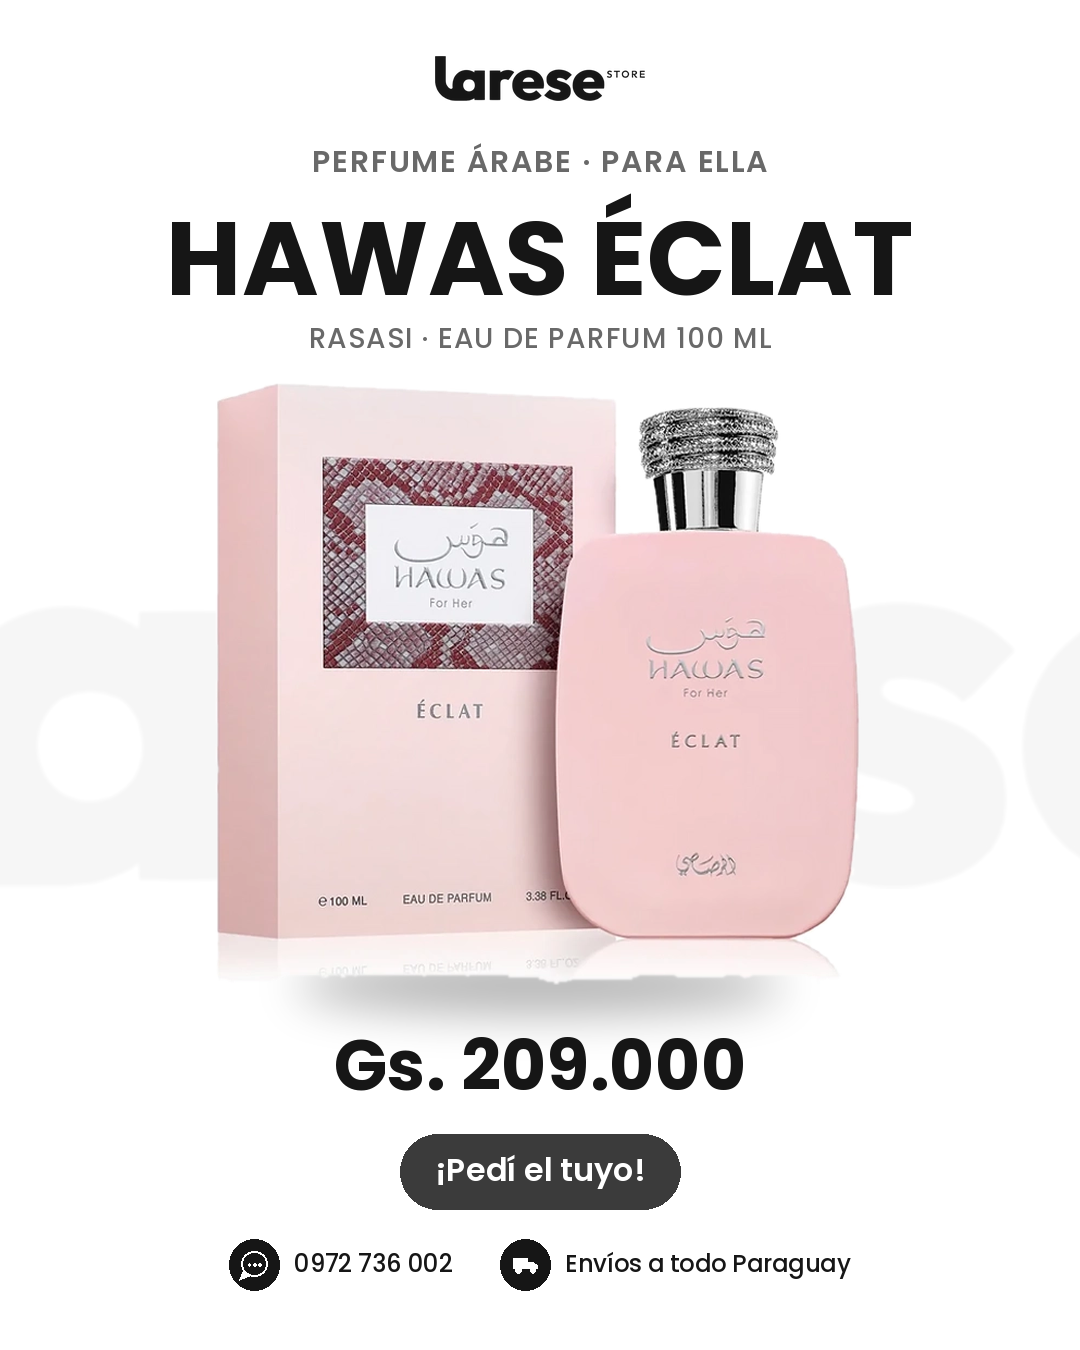
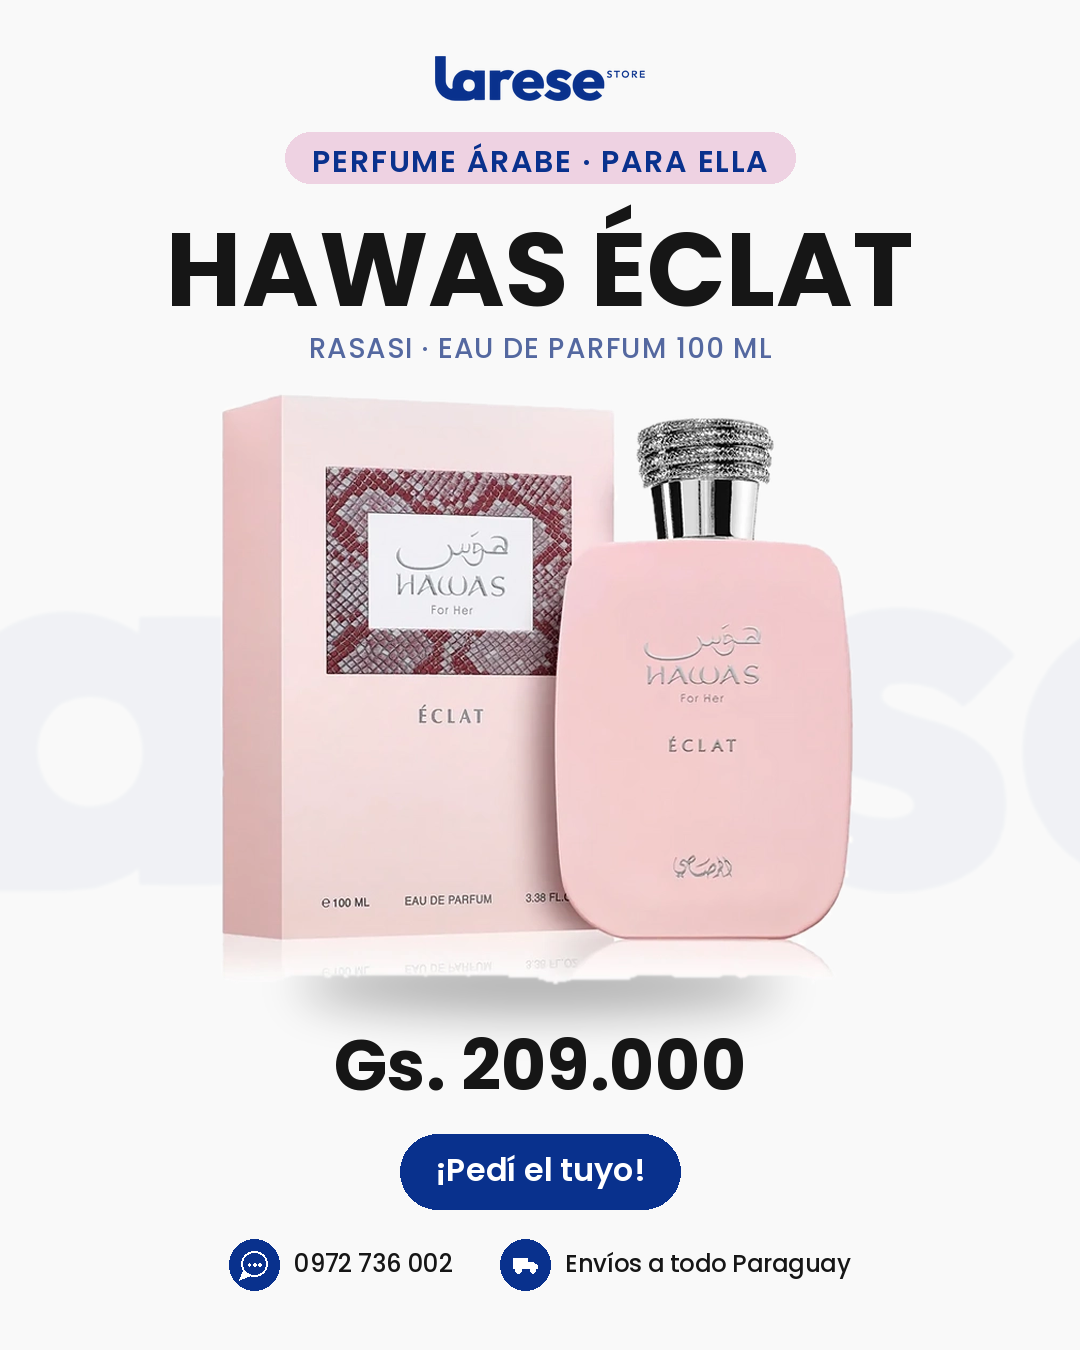
Bring in store palette (Off-White, black, Deep Blue, Ballerina) and redo Hawas Éclat ad
Tool and CLAUDE.md taken from the branch where the palette was chosen;
keeps precio_frase and non-breaking-space wrapping added here.

Claude-Session: https://claude.ai/code/session_01DnzkNPbSXQQMqRqh5ZzW49

diff --git a/herramientas/pieza-fondo-blanco/scripts/crear_pieza.py b/herramientas/pieza-fondo-blanco/scripts/crear_pieza.py
@@ -2,7 +2,7 @@
 """
 Genera piezas visuales de LARESE STORE como PNG.
 
-Estilo: fondo de un solo color que combina con el producto, producto recortado y grande
+Estilo: fondo blanco, textos en Deep Blue (#09318D) y detalles en Ballerina (#EED2E2), producto recortado y grande
 en el centro, copias desenfocadas del producto en las esquinas para dar profundidad,
 el logo "larese" gigante y transparente detrás, texto blanco en Poppins
 (títulos en mayúsculas y gruesos), botón tipo píldora y pie con íconos.
@@ -28,6 +28,7 @@ Spec (JSON). Solo "formato" y "titulo" son obligatorios:
   "color": "#D4848C",                     # opcional: fuerza el color de fondo
   "categoria": "perfume",                 # perfume | joya | maquillaje | cosmetico | electronica
   "cta": "¡Pedí el tuyo!",                # texto del botón
+  "paleta": "tienda",                     # "tienda" (azul y rosa) o "promo" (negro y rojo naranja)
   "gancho": "...",                        # solo portada: frase grande en lugar del título
   "slides": [ {...}, {...} ]              # solo carrusel: un spec de post por slide
 }
@@ -51,11 +52,31 @@ FUENTES = os.path.join(ASSETS, "fonts")
 WHATSAPP = "0972 736 002"
 ENVIOS = "Envíos a todo Paraguay"
 BLANCO = (255, 255, 255)
-# Fondo SIEMPRE blanco: textos en negro y grises
-FONDO = (255, 255, 255)
-TEXTO = (22, 22, 22)
-GRIS = (105, 105, 105)
-ACENTO = (22, 22, 22)
+# Fondo SIEMPRE blanco. Paleta de la tienda: Deep Blue #09318D (textos, botón, íconos)
+# y Ballerina #EED2E2 (detalles: etiqueta y sello). Blanco de la paleta: #FCFFFF (se usa blanco puro).
+FONDO = (249, 249, 249)   # Off-White #F9F9F9
+TEXTO = (9, 49, 141)       # Deep Blue #09318D
+GRIS = (84, 104, 160)      # Deep Blue suavizado, para textos secundarios
+ACENTO = (9, 49, 141)      # Deep Blue
+ROSA = (238, 210, 226)     # Ballerina #EED2E2
+NEGRO = (22, 22, 22)       # títulos, precio y textos del pie
+ETI_TEXTO = TEXTO          # texto sobre la píldora de la etiqueta y el sello
+
+# "tienda" (por defecto): negro + Deep Blue + Ballerina.
+# "promo" (promos, liquidaciones, fechas con urgencia): Matte Black #28282B + Red Orange #FF4200
+#   sobre Off-White #F9F9F9.
+PALETAS = {
+    "tienda": dict(FONDO=(249, 249, 249), TEXTO=(9, 49, 141), GRIS=(84, 104, 160), ACENTO=(9, 49, 141),
+                   ROSA=(238, 210, 226), NEGRO=(22, 22, 22), ETI_TEXTO=(9, 49, 141)),
+    "promo": dict(FONDO=(249, 249, 249), TEXTO=(40, 40, 43), GRIS=(110, 110, 114), ACENTO=(40, 40, 43),
+                  ROSA=(255, 66, 0), NEGRO=(40, 40, 43), ETI_TEXTO=(255, 255, 255)),
+}
+
+
+def usar_paleta(nombre):
+    if nombre not in PALETAS:
+        raise SystemExit(f"Paleta desconocida: {nombre}. Usá: {', '.join(PALETAS)}")
+    globals().update(PALETAS[nombre])
 
 TAMANOS = {
     "post": (1080, 1350),
@@ -223,7 +244,7 @@ def color_del_producto(prod):
 # ---------------- capas ----------------
 
 def fondo(w, h, color):
-    if color == FONDO:  # blanco puro, sin degradé
+    if color == FONDO:  # fondo liso de la paleta, sin degradé
         return Image.new("RGBA", (w, h), FONDO + (255,))
     centro = ajustar_color(color, dv=0.07, ds=-0.06)
     borde = ajustar_color(color, dv=-0.07)
@@ -322,7 +343,7 @@ def sello(img, cx, cy, texto, r, color_texto):
     ImageDraw.Draw(sombra).ellipse((cx - r, cy - r + 8, cx + r, cy + r + 8), fill=120)
     img.alpha_composite(capa_color(sombra.filter(ImageFilter.GaussianBlur(14)), (0, 0, 0), 0.5))
     d = ImageDraw.Draw(img)
-    d.ellipse((cx - r, cy - r, cx + r, cy + r), fill=TEXTO)
+    d.ellipse((cx - r, cy - r, cx + r, cy + r), fill=ROSA)
     f, ls, _ = ajustar(d, texto, int(r * 0.62), 20, r * 1.55, 2, b"ExtraBold")
     y = cy - alto_linea(f) * len(ls) / 2 - r * 0.04
     for l in ls:
@@ -338,7 +359,7 @@ def boton(img, cx, y, texto, tam, color_fondo):
     px, py = tam * 1.1, tam * 0.45
     caja = (cx - w / 2 - px, y, cx + w / 2 + px, y + h + 2 * py)
     capa = Image.new("RGBA", img.size, (0, 0, 0, 0))
-    ImageDraw.Draw(capa).rounded_rectangle(caja, radius=(h + 2 * py) / 2, fill=color_fondo + (215,))
+    ImageDraw.Draw(capa).rounded_rectangle(caja, radius=(h + 2 * py) / 2, fill=color_fondo + (255,))
     img.alpha_composite(capa)
     txt(ImageDraw.Draw(img), cx, y + py - tam * 0.05, texto, f, BLANCO)
     return caja[3]
@@ -373,7 +394,7 @@ def pie(img, y, tam, color_circulo):
     for (ic, t), aw in zip(items, anchos):
         d.ellipse((x, cy - r, x + 2 * r, cy + r), fill=color_circulo)
         (icono_chat if ic == "chat" else icono_camion)(d, x + r, cy, r * 0.82)
-        d.text((x + 2 * r + tam * 0.6, cy - alto_linea(f) / 2 - tam * 0.05), t, font=f, fill=TEXTO)
+        d.text((x + 2 * r + tam * 0.6, cy - alto_linea(f) / 2 - tam * 0.05), t, font=f, fill=NEGRO)
         x += aw + sep
 
 
@@ -386,7 +407,7 @@ def precio(img, cx, y, spec, tam):
     if anterior:
         f2 = fuente(tam * 0.46, b"Medium")
         w2 = d.textlength(anterior, font=f2)
-        claro = (120, 120, 120, 255)
+        claro = GRIS + (255,)
         d.text((cx - w2 / 2, y), anterior, font=f2, fill=claro)
         a, _ = f2.getmetrics()
         d.line((cx - w2 / 2 - 4, y + a * 0.62, cx + w2 / 2 + 4, y + a * 0.62), fill=claro, width=3)
@@ -397,7 +418,7 @@ def precio(img, cx, y, spec, tam):
         y += alto_linea(f3, 1.1)
     if actual:
         f = fuente(tam, b"Bold")
-        txt(ImageDraw.Draw(img), cx, y, actual, f)
+        txt(ImageDraw.Draw(img), cx, y, actual, f, NEGRO)
         y += alto_linea(f, 1.05)
     return y
 
@@ -429,6 +450,7 @@ def armar(spec):
     if formato not in TAMANOS:
         raise SystemExit(f"Formato desconocido: {formato}. Usá: {', '.join(list(TAMANOS) + ['carrusel'])}")
     w, h = TAMANOS[formato]
+    usar_paleta(spec.get("paleta", "tienda"))
     M = MEDIDAS[formato]
 
     prod, recortado = cargar_producto(spec.get("imagen"))
@@ -451,7 +473,7 @@ def armar(spec):
     y_texto = M["logo_y"] + logo_m.height + M["eti"] * 1.3
     arriba = y_texto
     if spec.get("etiqueta"):
-        arriba += alto_linea(fuente(M["eti"], b"SemiBold"), 1.05)
+        arriba += alto_linea(fuente(M["eti"], b"SemiBold"), 1.05) + M["eti"] * 0.35
     arriba += alto_linea(ft, 0.86) * len(lt)
     fs, ls = None, []
     if spec.get("subtitulo"):
@@ -492,7 +514,7 @@ def armar(spec):
     if spec.get("descuento"):
         r = w * (0.105 if formato in ("historia", "portada") else 0.095)
         sx = min(w - r - 44, pcaja[2] + r * 0.5)
-        sello(img, sx, pcaja[1] + r * 1.15, spec["descuento"], r, BLANCO)
+        sello(img, sx, pcaja[1] + r * 1.15, spec["descuento"], r, ETI_TEXTO)
 
     # --- textos de arriba ---
     d = ImageDraw.Draw(img)
@@ -500,10 +522,17 @@ def armar(spec):
     y = y_texto
     if spec.get("etiqueta"):
         fe = fuente(M["eti"], b"SemiBold")
-        txt(d, cx, y, spec["etiqueta"].upper(), fe, GRIS, esp=M["eti"] * 0.06)
-        y += alto_linea(fe, 1.05)
+        et = spec["etiqueta"].upper()
+        esp_e = M["eti"] * 0.06
+        we = ancho_txt(d, et, fe, esp_e)
+        bb = fe.getbbox(et)
+        px, py = M["eti"] * 0.9, M["eti"] * 0.38
+        d.rounded_rectangle((cx - we / 2 - px, y + bb[1] - py, cx + we / 2 + px, y + bb[3] + py),
+                            radius=(bb[3] - bb[1]) / 2 + py, fill=ROSA)
+        txt(d, cx, y, et, fe, ETI_TEXTO, esp=esp_e)
+        y += alto_linea(fe, 1.05) + M["eti"] * 0.35
     for l in lt:
-        txt(d, cx, y, l, ft, TEXTO, esp=esp_t)
+        txt(d, cx, y, l, ft, NEGRO, esp=esp_t)
         y += alto_linea(ft, 0.86)
     if ls:
         y += 6

diff --git a/herramientas/pieza-fondo-blanco/scripts/sello_regalo.py b/herramientas/pieza-fondo-blanco/scripts/sello_regalo.py
@@ -1,0 +1,35 @@
+"""Sello '+1 decant de 5 ml de REGALO' con REGALO grande.
+Uso: python3 sello_regalo.py entrada.png salida.png cx cy radio carpeta_fuentes [tienda|promo] ["línea 1|línea 2|PALABRA GRANDE"]"""
+import sys
+from PIL import Image, ImageDraw, ImageFilter, ImageFont
+src, out, cx, cy, r, fonts = sys.argv[1], sys.argv[2], float(sys.argv[3]), float(sys.argv[4]), float(sys.argv[5]), sys.argv[6]
+paleta = sys.argv[7] if len(sys.argv) > 7 else "tienda"
+l1, l2, l3 = (sys.argv[8] if len(sys.argv) > 8 else "+1 decant|de 5 ml de|REGALO").split("|")
+FONDO_SELLO, TEXTO_SELLO = {"tienda": ((238, 210, 226), (9, 49, 141)),
+                            "promo": ((255, 66, 0), (255, 255, 255))}[paleta]
+img = Image.open(src).convert("RGBA")
+sh = Image.new("L", img.size, 0)
+ImageDraw.Draw(sh).ellipse((cx-r, cy-r+10, cx+r, cy+r+10), fill=110)
+sh = sh.filter(ImageFilter.GaussianBlur(16))
+img.alpha_composite(Image.merge("RGBA", [Image.new("L", img.size, 0)]*3 + [sh]))
+d = ImageDraw.Draw(img)
+d.ellipse((cx-r, cy-r, cx+r, cy+r), fill=FONDO_SELLO)
+def fit(text, weight, max_w, start):
+    s = start
+    while True:
+        f = ImageFont.truetype(f"{fonts}/Poppins-{weight}.ttf", s)
+        if d.textlength(text, font=f) <= max_w or s < 10: return f
+        s -= 1
+small1 = fit(l1, "SemiBold", r*1.3, int(r*0.23))
+small2 = fit(l2, "SemiBold", r*1.45, small1.size)
+small1 = small2 = min(small1, small2, key=lambda f: f.size)
+big = fit(l3, "ExtraBold", r*1.5, int(r*0.5))
+lines = [(l1, small1), (l2, small2), (l3, big)]
+hs = [f.getbbox(t)[3]-f.getbbox(t)[1] for t, f in lines]
+gap = r*0.08
+y = cy - (sum(hs) + gap*2)/2
+for (t, f), h in zip(lines, hs):
+    bb = f.getbbox(t)
+    d.text((cx - d.textlength(t, font=f)/2, y - bb[1]), t, font=f, fill=TEXTO_SELLO)
+    y += h + gap
+img.convert("RGB").save(out)

diff --git a/CLAUDE.md b/CLAUDE.md
@@ -2,7 +2,7 @@
 
 ## Fondo blanco SIEMPRE
 
-Todas las piezas para redes (posts, historias, carruseles, portadas) van con **fondo blanco puro**, sin excepción. La dueña lo pidió así.
+Todas las piezas para redes (posts, historias, carruseles, portadas) van con **fondo Off-White `#F9F9F9`** (un blanco apenas grisado), sin excepción. La dueña lo pidió así: primero pidió blanco puro y después eligió este Off-White para todas las piezas.
 
 - No uses el script de la skill `larese-anuncios` tal cual: arma el fondo con el color del producto y el texto en blanco.
 - Usá la versión de fondo blanco del repo, que tiene el mismo estilo pero con texto negro y grises:
@@ -13,3 +13,22 @@ Todas las piezas para redes (posts, historias, carruseles, portadas) van con **f
 
   El spec es el mismo que el de la skill. Los campos `color` y `categoria` se ignoran, porque el fondo siempre es blanco.
 - Si armás una pieza a mano o con otra herramienta, también va con fondo blanco y textos oscuros.
+
+## Colores de la tienda
+
+Sobre el fondo blanco se usan los colores que eligió la dueña:
+
+- **Negro**: títulos, precio y textos del pie.
+- **Deep Blue `#09318D`**: logo, subtítulos, botón e íconos del pie.
+- **Ballerina `#EED2E2`**: detalles, como la píldora de la etiqueta y los sellos (texto en Deep Blue encima).
+- **Off-White `#F9F9F9`**: el fondo de todas las piezas.
+
+Esta es la paleta **de la tienda** y la herramienta `herramientas/pieza-fondo-blanco` la usa por defecto (`"paleta": "tienda"`).
+
+### Paleta de promos
+
+Para promos, liquidaciones y fechas con urgencia (Black Friday, "últimas horas"), la dueña eligió una segunda paleta. Se activa con `"paleta": "promo"` en el spec:
+
+- **Matte Black `#28282B`**: logo, títulos, precio, botón e íconos.
+- **Red Orange `#FF4200`**: píldora de la etiqueta y sellos (texto blanco encima).
+- **Off-White `#F9F9F9`** de fondo, igual que la paleta de la tienda.
